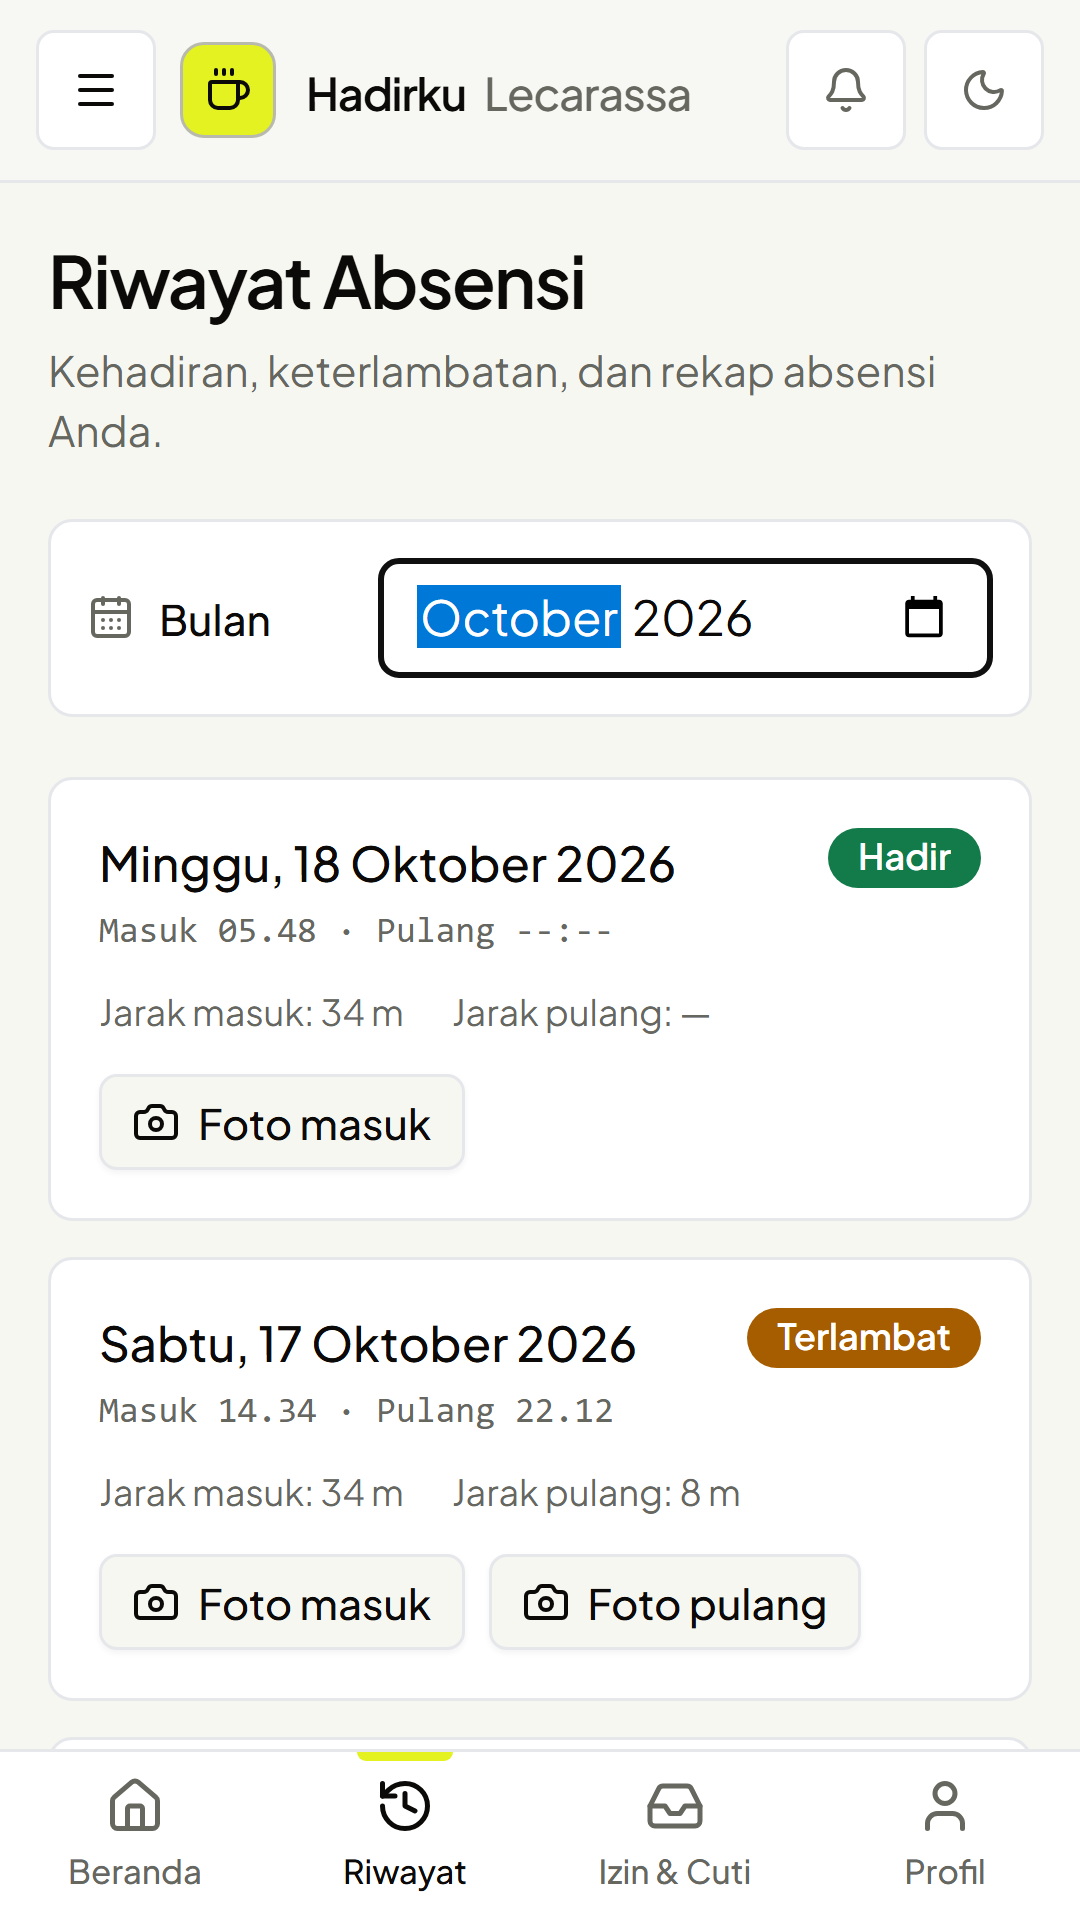
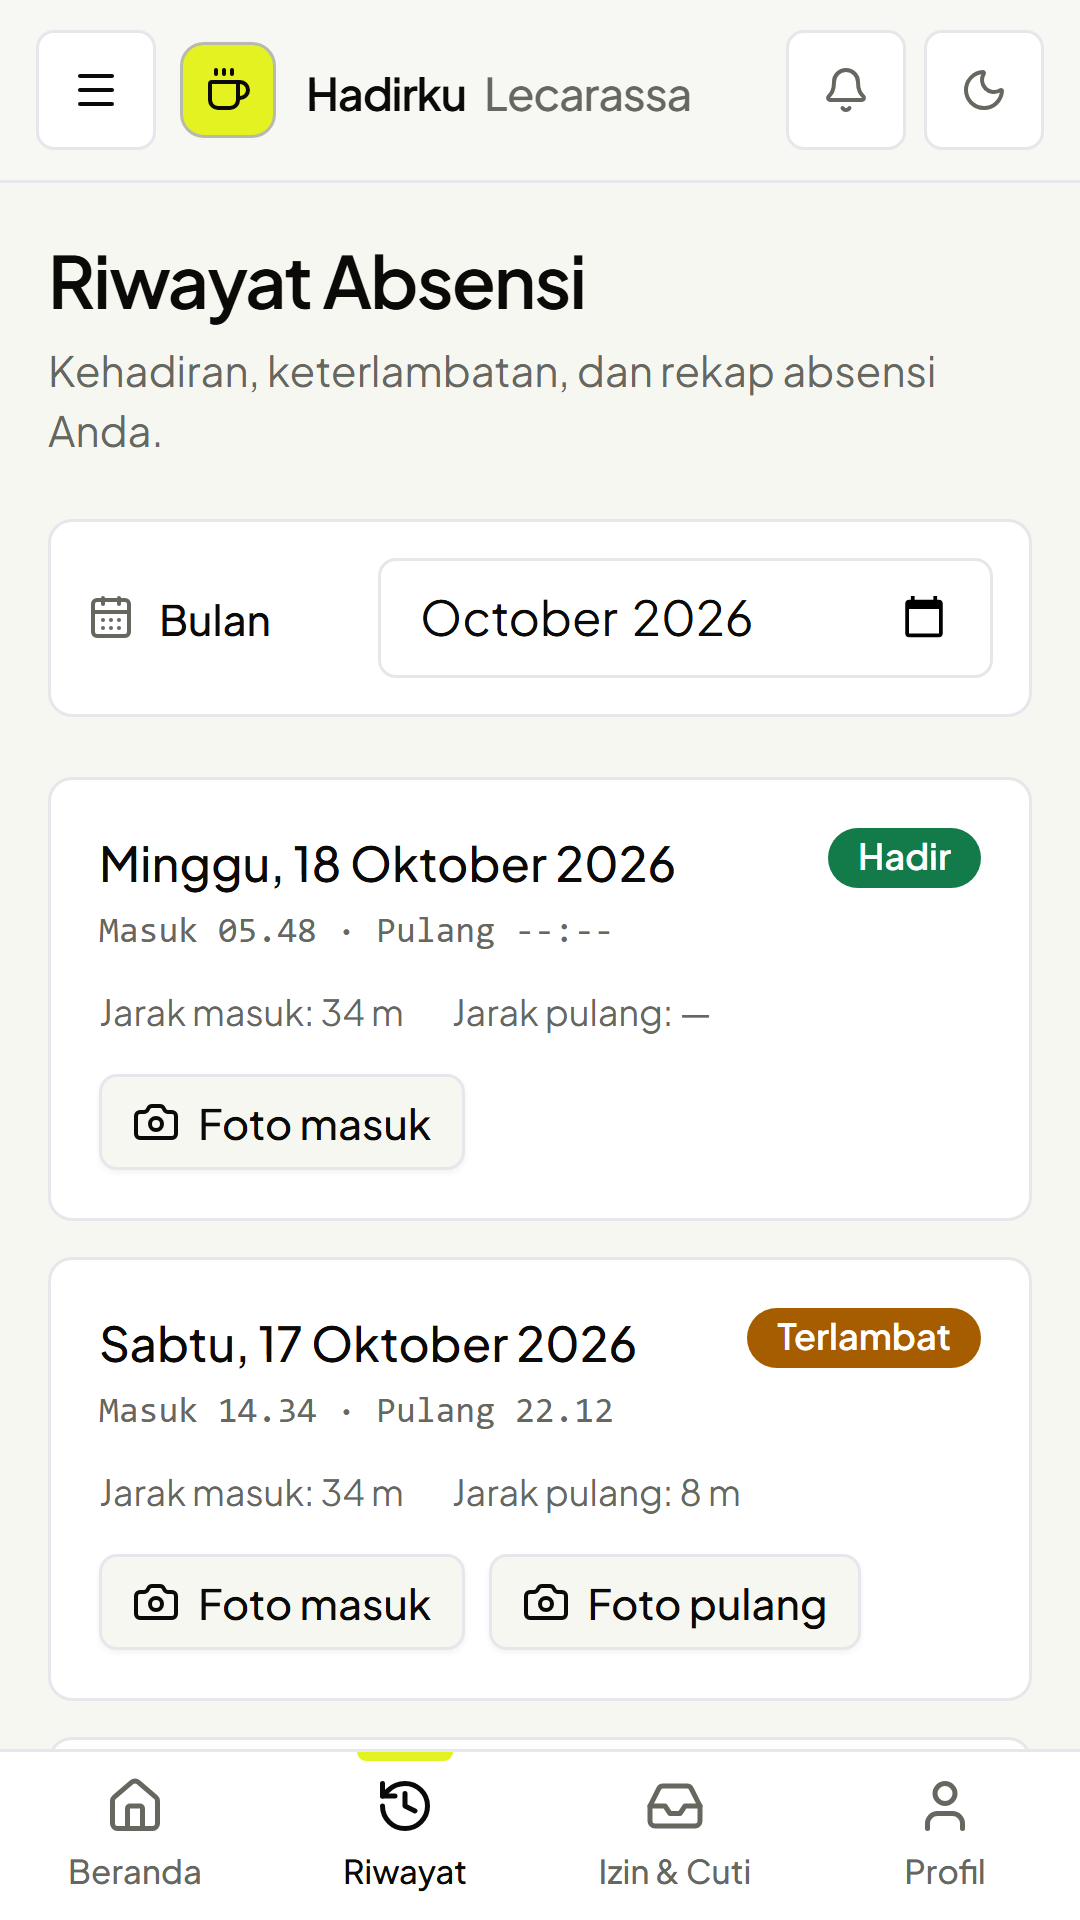
Polish Play Store screenshots and link store assets

Changed region(s): [[0.3361, 0.2812, 0.5806, 0.375], [0.8861, 0.3438, 0.9167, 0.375], [0.8861, 0.2812, 0.9167, 0.3125]]

diff --git a/ngodingpakeai-starter/docs/mobile-release-signing.md b/ngodingpakeai-starter/docs/mobile-release-signing.md
@@ -69,6 +69,18 @@ Hasil yang sudah diperiksa:
 - Version: `1.2` (versionCode `3`)
 - Release tidak debuggable.
 
+## Store listing
+
+Aset dan teks Play Store tersedia di `mobile-app/store-listing/`:
+
+- ikon 512×512,
+- feature graphic 1024×500,
+- 8 screenshot 1080×1920,
+- short/full description,
+- data safety draft,
+- draf kebijakan privasi,
+- panduan upload di `play-store-listing.md`.
+
 ## Upload ke Play Console
 
 1. Buka Play Console → aplikasi Hadirku Lecarassa.
